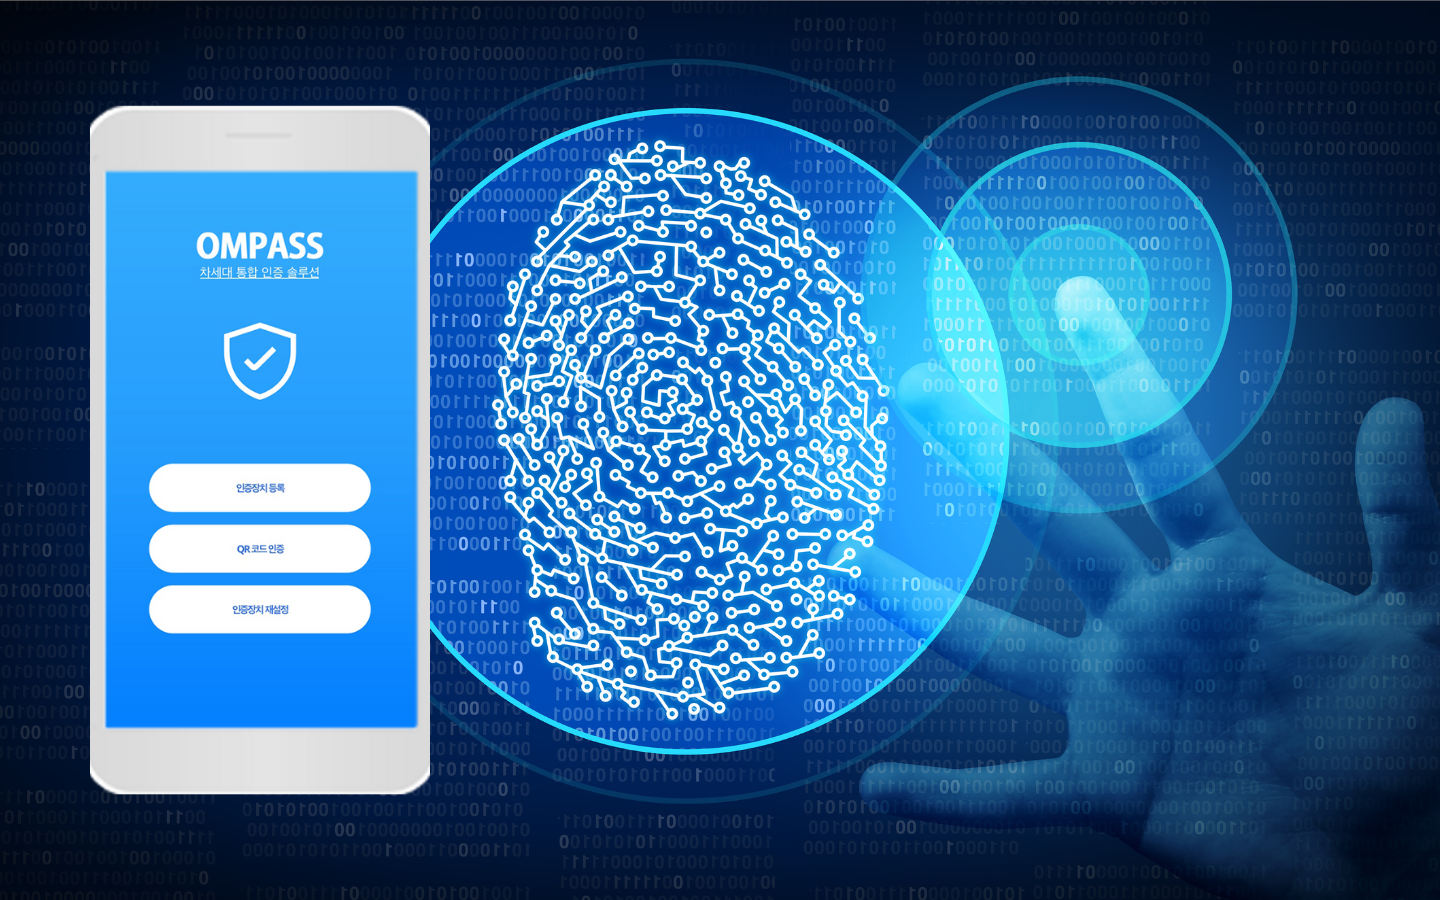
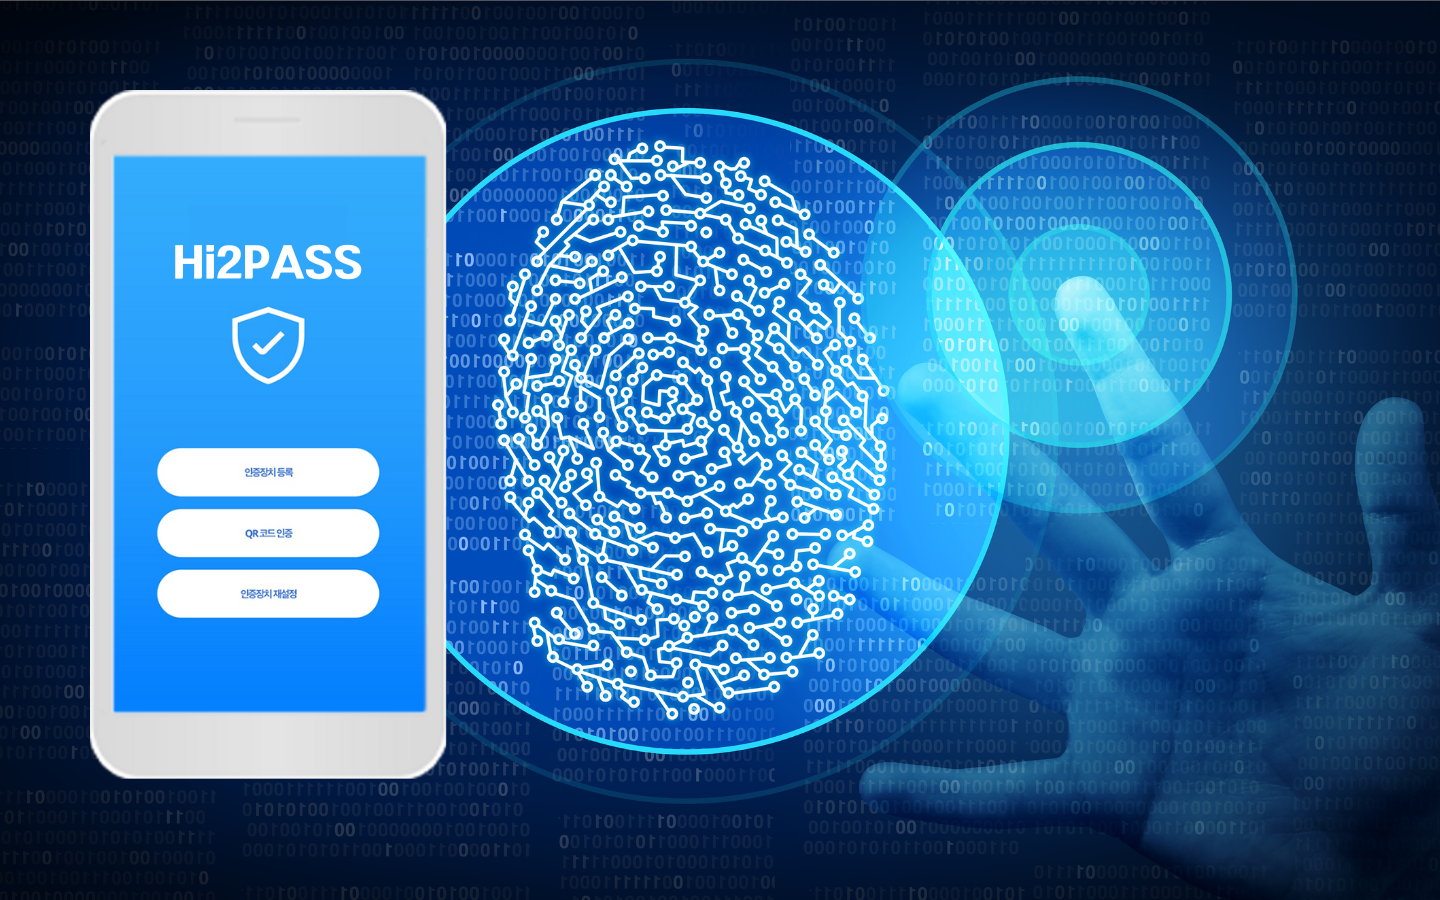
hipass 소개 페이지 수정사항 반영
손주원 대리 피드백 반영 및 메인 상품 이미지 수정

1. 메인상품 이미지 내 솔루션명 OMPASS -> Hi2PASS 변경

2. 하이패스 소개 텍스트 수정

3. 다운로드 버튼 클릭시 제안서 다운로드 -> 상품 소개서 다운로드로 변경

4. 고객중심의 유연성 Div 텍스트 변경

Changed region(s): [[0.0625, 0.0933, 0.3125, 0.9022], [0.1562, 0.3422, 0.2188, 0.4667]]

diff --git a/src/views/solutions/HipassIntro.js b/src/views/solutions/HipassIntro.js
@@ -11,9 +11,9 @@ const HipassIntro = () => {
                         <div className='row'>
                             <div className='col-lg-6 d-flex flex-column justify-content-center pt-4 pt-lg-0 order-2 order-lg-1' data-aos="fade-up" data-aos-delay="200">
                                 <h1><span style={{ color: 'rgb(253, 142, 77)' }}>차세대 통합 인증 솔루션</span></h1>
-                                <h2 style={{ marginTop: '15px' }}>지문,음성,얼굴인식 등 다양한 생체인증 방식을 통해 보다 편리하고 안전한 Passwordless 방식의 로그인 서비스를 만나보세요</h2>
+                                <h2 style={{ marginTop: '15px' }}>지문, 음성, 얼굴 인식 등 다양한 생체인증 방식을 통해, 보다 편리하고 안전한 Passwordless방식의 로그인 서비스를 만나보세요.</h2>
                                 <div className='d-flex justify-content-center justify-content-lg-start'>
-                                    <DownloadButton lang='다운로드' filename='차세대 통합 인증 솔루션 표준 제안서.pdf' url='https://innohifront.s3.ap-northeast-2.amazonaws.com/WebContent/views/HIST+%E1%84%8C%E1%85%A1%E1%84%8E%E1%85%A6+%E1%84%89%E1%85%A9%E1%86%AF%E1%84%85%E1%85%AE%E1%84%89%E1%85%A7%E1%86%AB+HiPass+%E1%84%91%E1%85%AD%E1%84%8C%E1%85%AE%E1%86%AB%E1%84%8C%E1%85%A6%E1%84%8B%E1%85%A1%E1%86%AB%E1%84%89%E1%85%A5.pdf' />
+                                    <DownloadButton lang='다운로드' filename='차세대 통합 인증 솔루션 상품 소개서.pdf' url='https://innohifront.s3.ap-northeast-2.amazonaws.com/WebContent/views/HIST+%E1%84%8C%E1%85%A1%E1%84%8E%E1%85%A6+%E1%84%89%E1%85%A9%E1%86%AF%E1%84%85%E1%85%AE%E1%84%89%E1%85%A7%E1%86%AB+HiPass+%E1%84%89%E1%85%A1%E1%86%BC%E1%84%91%E1%85%AE%E1%86%B7%E1%84%89%E1%85%A9%E1%84%80%E1%85%A2%E1%84%89%E1%85%A5.pdf' />
                                 </div>
                             </div>
                             <div className='col-lg-6 order-1 order-lg-2 hero-img' data-aos="zoom-in" data-aos-delay="200">
@@ -105,7 +105,7 @@ const HipassIntro = () => {
                             <div className="icon-box" style={{ textAlign: 'center' }}>
                                 <img src={require('../../assets/img/solutions/hipass/7.png').default} className="img-fluid" style={{ width: '70%' }} alt=""></img>
                                 <h4 style={{ textAlign: 'center', fontSize: '22px', fontWeight: 'bold', marginTop: '10px' }}>고객중심의 유연성</h4>
-                                <p style={{ textAlign: 'center', fontSize: '16px', marginTop: '5px' }}>다양한 인증수단 적용 및 통합된 인증 관리가 가능합니다</p>
+                                <p style={{ textAlign: 'center', fontSize: '16px', marginTop: '5px' }}>다양한 인증수단 적용 및 통합 인증관리 기능을 제공합니다</p>
                             </div>
                         </div>
 
